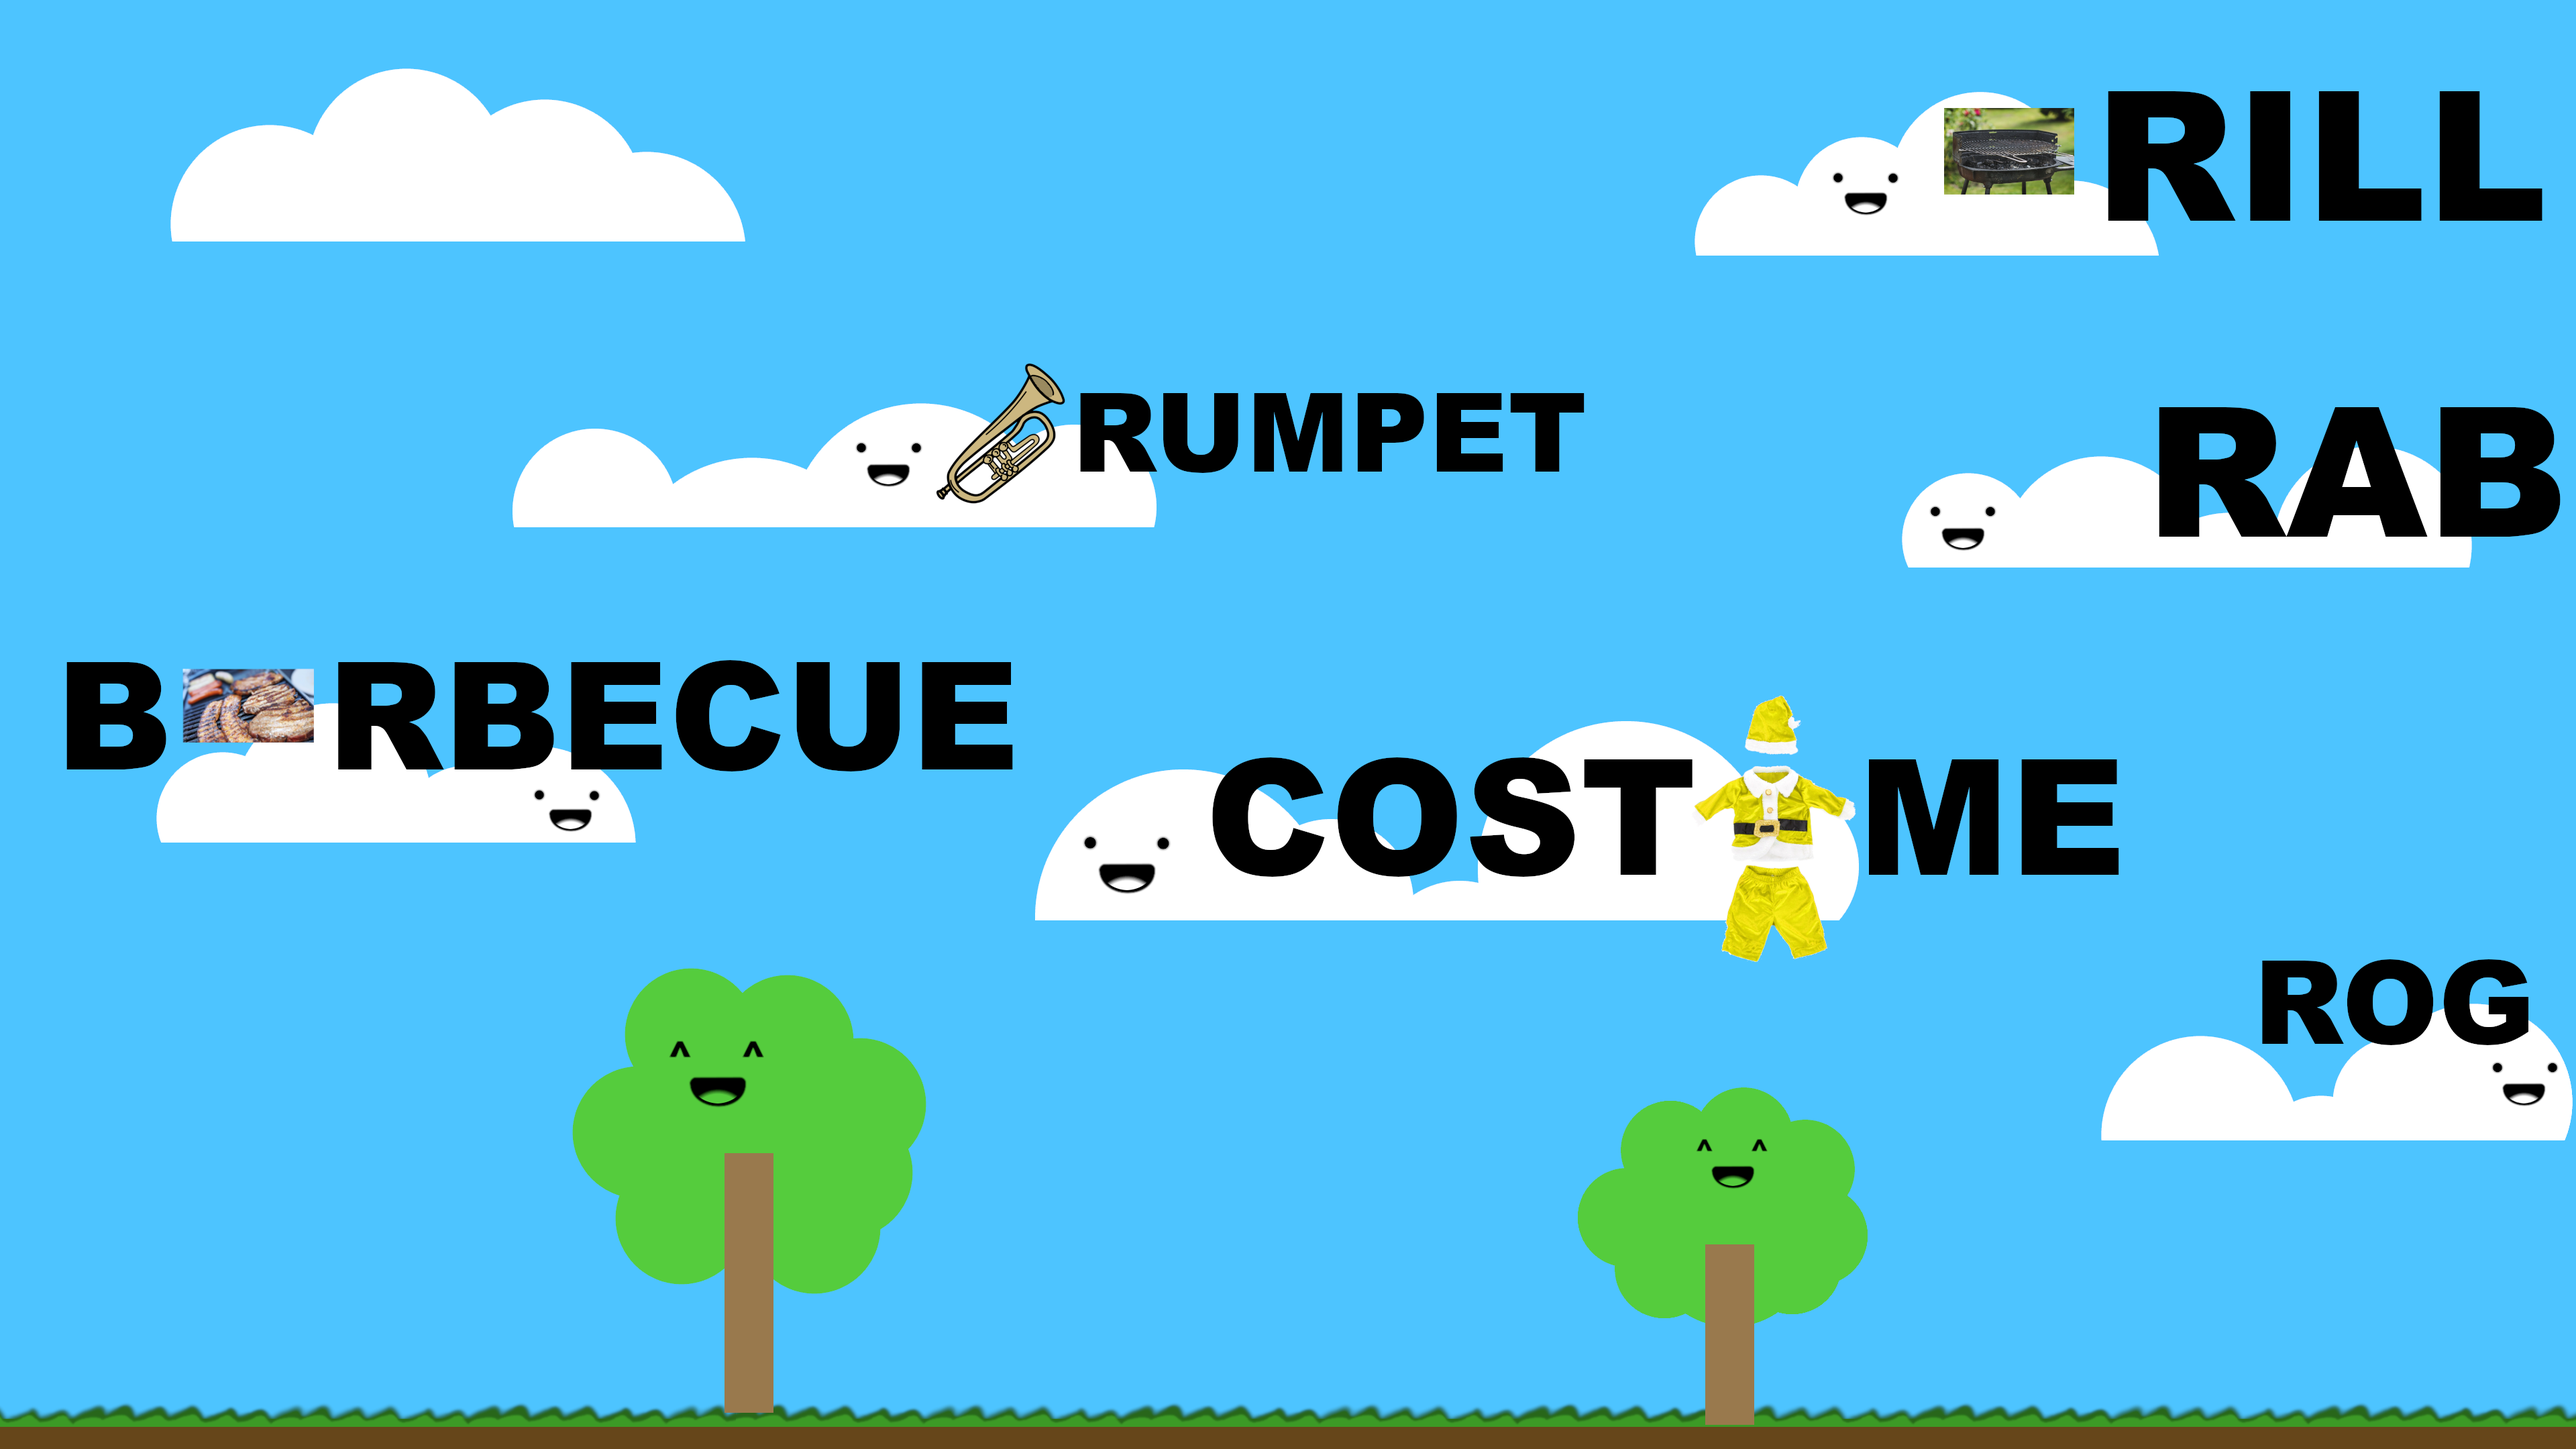
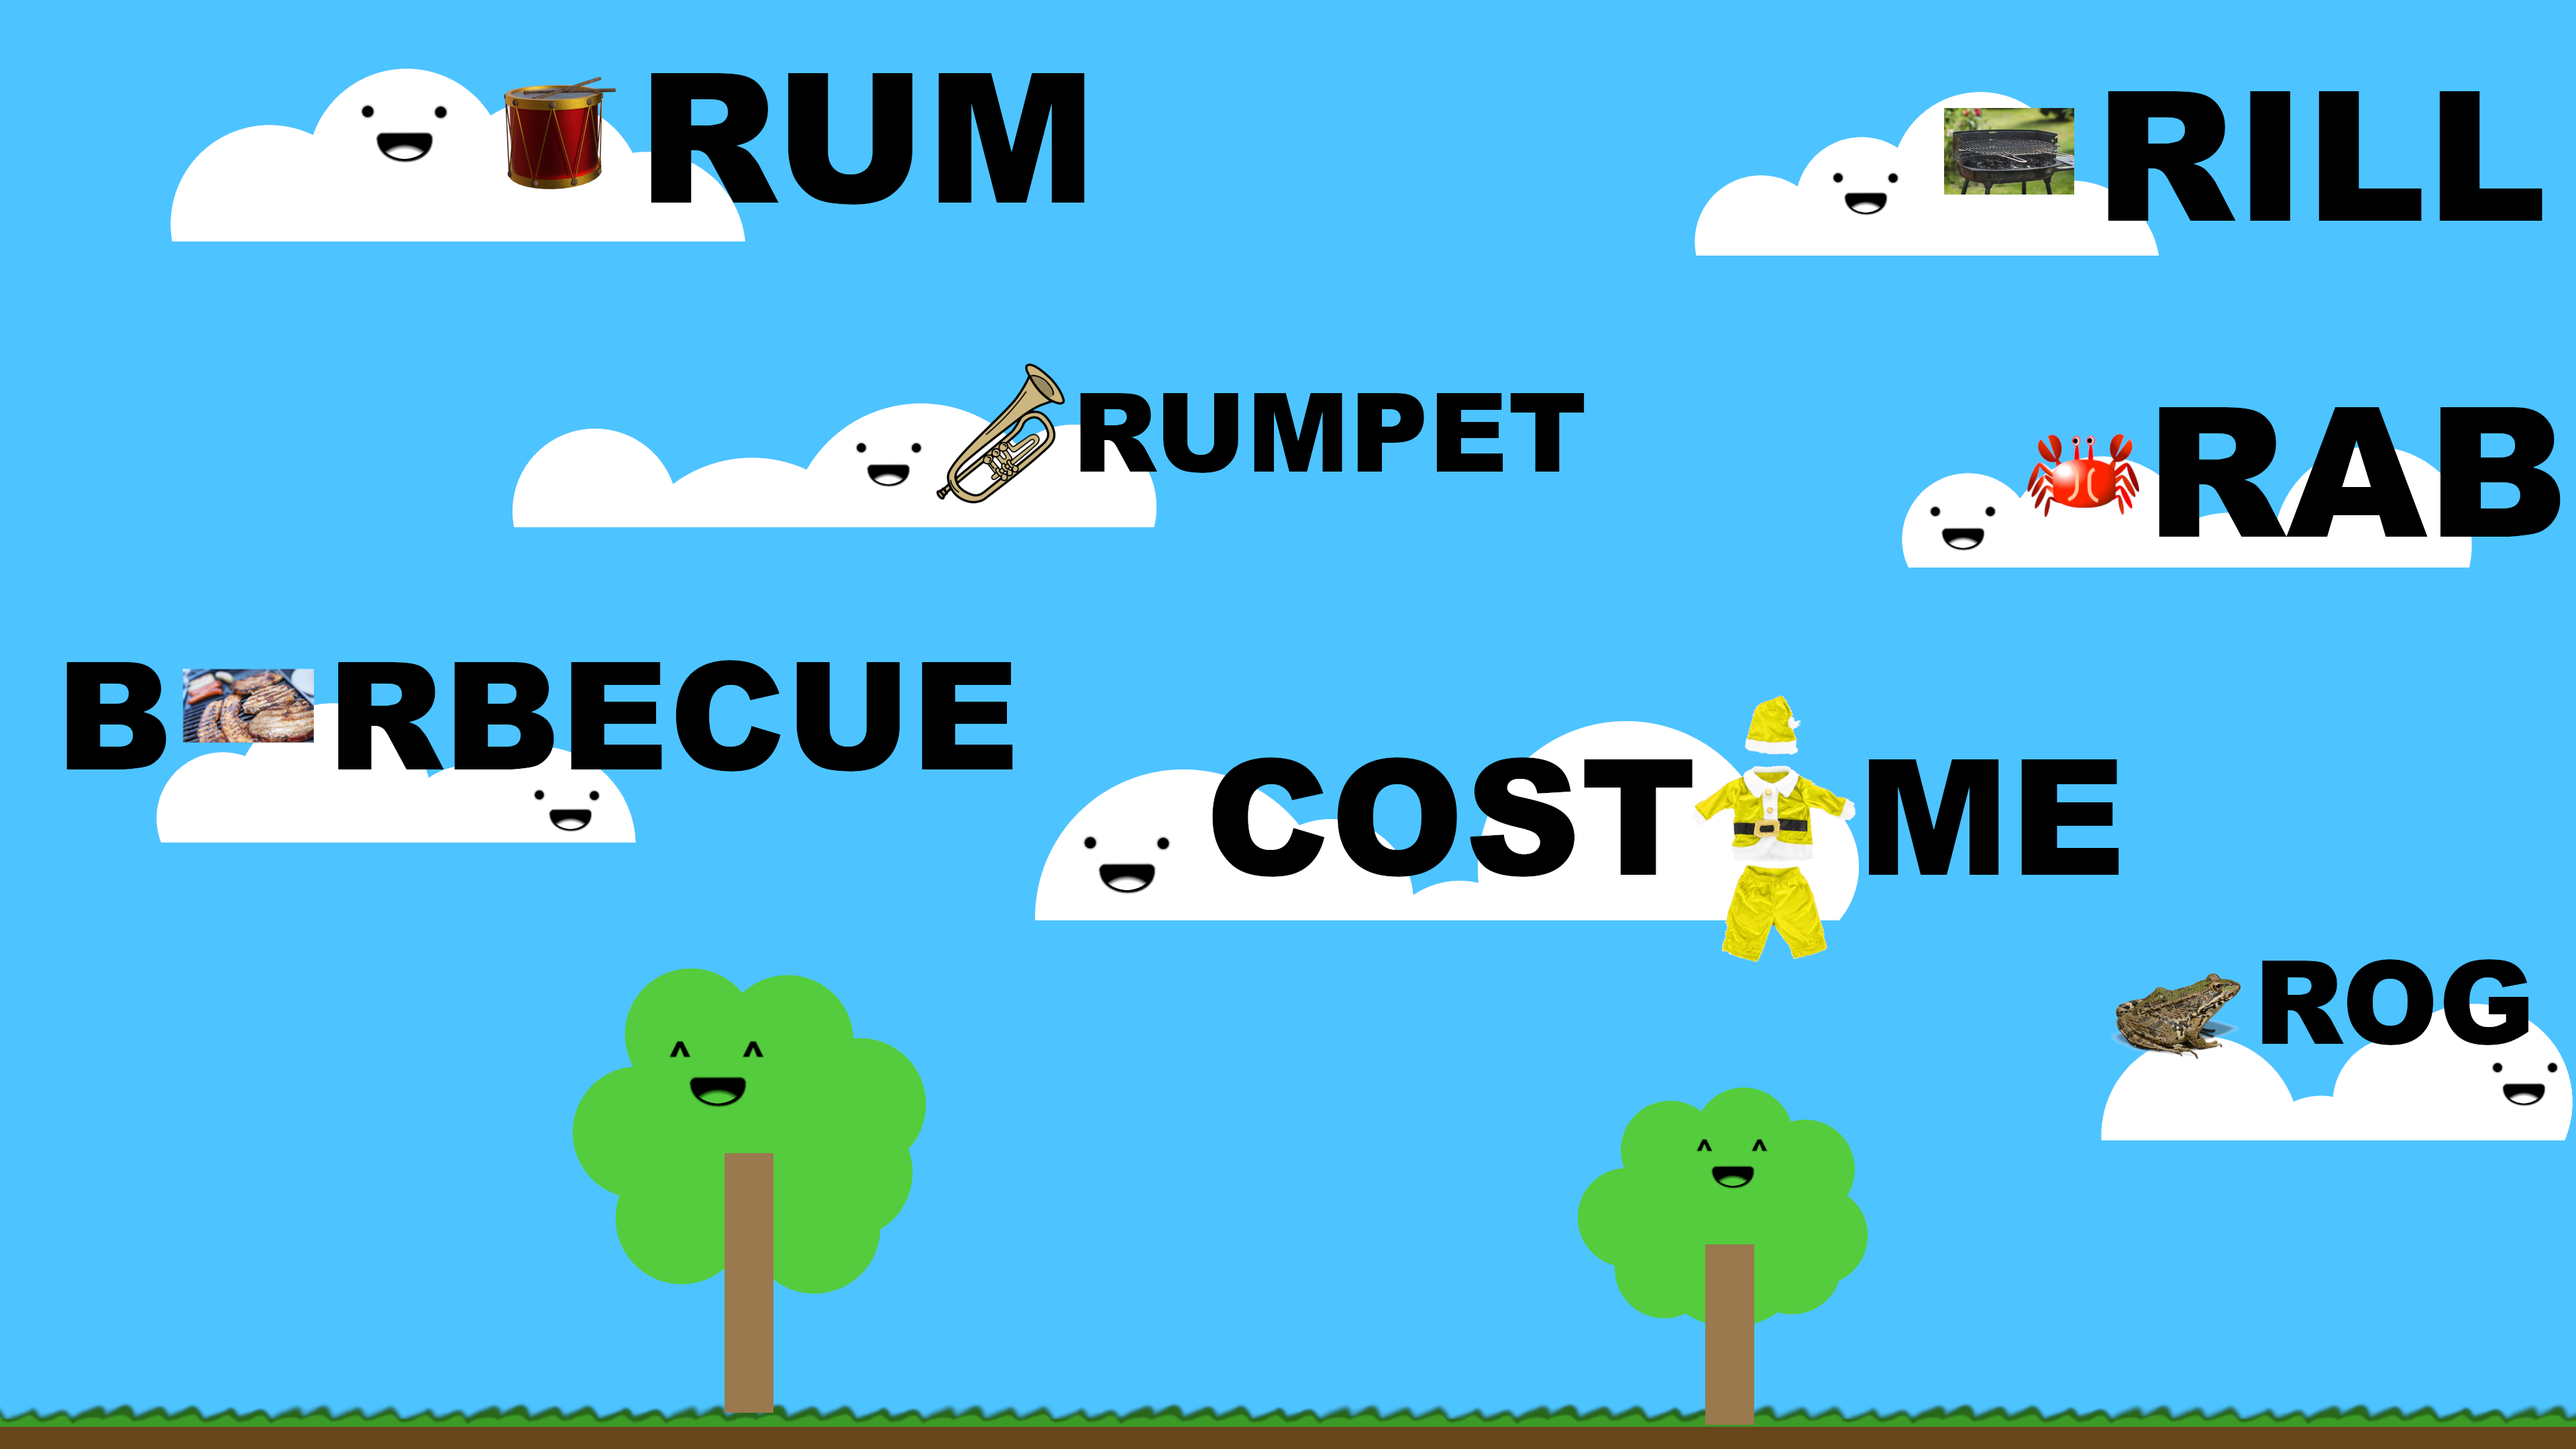
updated 'People'-book HTML file; added drum image; updated 'People'-book background image

Changed region(s): [[0.125, 0.031, 0.4375, 0.1551], [0.8125, 0.6514, 0.875, 0.7444], [0.7812, 0.2792, 0.8438, 0.3722]]

diff --git a/game2people.html b/game2people.html
@@ -388,7 +388,16 @@ function jump(velocity) {
       boingSound.play();
     }
 
-    if (userHzPos >= 0.62 && userHzPos <= 0.82 && userVtPos > 168) {            // "grill" cloud
+    if (userHzPos >= 0.033 && userHzPos <= 0.273 && userVtPos > 170) {            // "drum" cloud
+        if (userVtPos + velocity < 170) {
+          userVtPos = 170;
+          velocity = 0;
+          onSurface = true;
+          drawScreen();
+        } else {
+          drop(velocity);
+        }
+    } else if (userHzPos >= 0.62 && userHzPos <= 0.82 && userVtPos > 168) {            // "grill" cloud
         if (userVtPos + velocity < 168) {
           userVtPos = 168;
           velocity = 0;
@@ -567,6 +576,13 @@ function checkIfCompletingWord() {
         document.getElementById("candidateA").style.visibility = "hidden";
         document.getElementById("fullScreenVocabPic").src = "images/barbecue.png";
         var showVocabPicFullScreen = setInterval(frame, 5);
+    } else if (userHzPos >= 0.177 && userHzPos <= 0.191 && userVtPos < 170.1 && userVtPos > 169.9) {
+      if (letterOfCursor == "D") {
+        lettersFinished++;
+        document.getElementById("candidateD").style.visibility = "hidden";
+        document.getElementById("fullScreenVocabPic").src = "images/drum.png";
+        var showVocabPicFullScreen = setInterval(frame, 5);
+      }
     } else if (userHzPos >= 0.81 && userHzPos <= 0.832 && userVtPos < 46.1 && userVtPos > 45.9) {
       if (letterOfCursor == "J") {
         lettersFinished++;
@@ -659,7 +675,7 @@ function checkIfCompletingWord() {
 }
 
 function checkIfNeedsToFall() {
-  if (onCloudJet() || onCloudCostume() || onCloudBarbecue() || onCloudBlueYellow() || onCloudNet() || onCloudGrill() ) {
+  if (onCloudJet() || onCloudCostume() || onCloudBarbecue() || onCloudBlueYellow() || onCloudNet() || onCloudGrill() || onCloudDrum() ) {
     ;
   } else {
     jump(0);
@@ -703,6 +719,13 @@ function onCloudNet() {
 
 function onCloudGrill() {
   if (userHzPos >= 0.62 && userHzPos <= 0.82 && userVtPos == 168) {
+    return true;
+  }
+  return false;
+}
+
+function onCloudDrum() {
+  if (userHzPos >= 0.033 && userHzPos <= 0.273 && userVtPos == 170) {
     return true;
   }
   return false;
